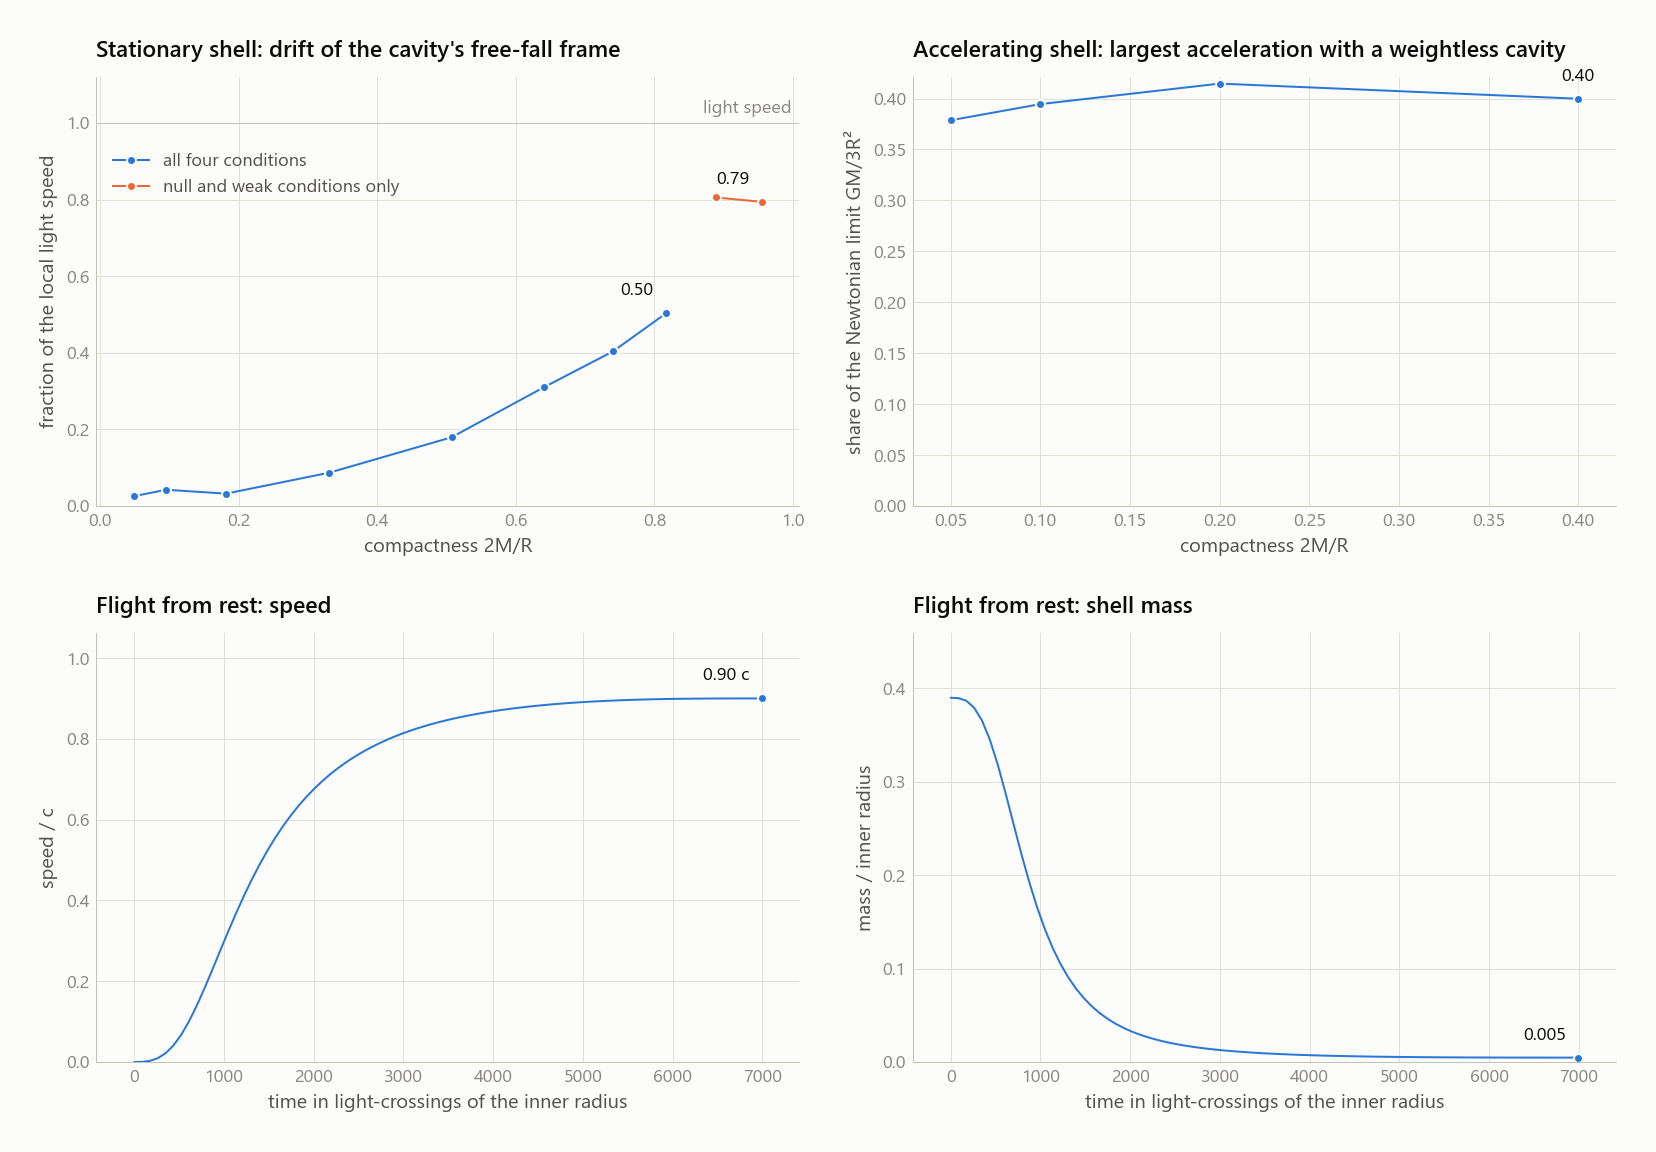
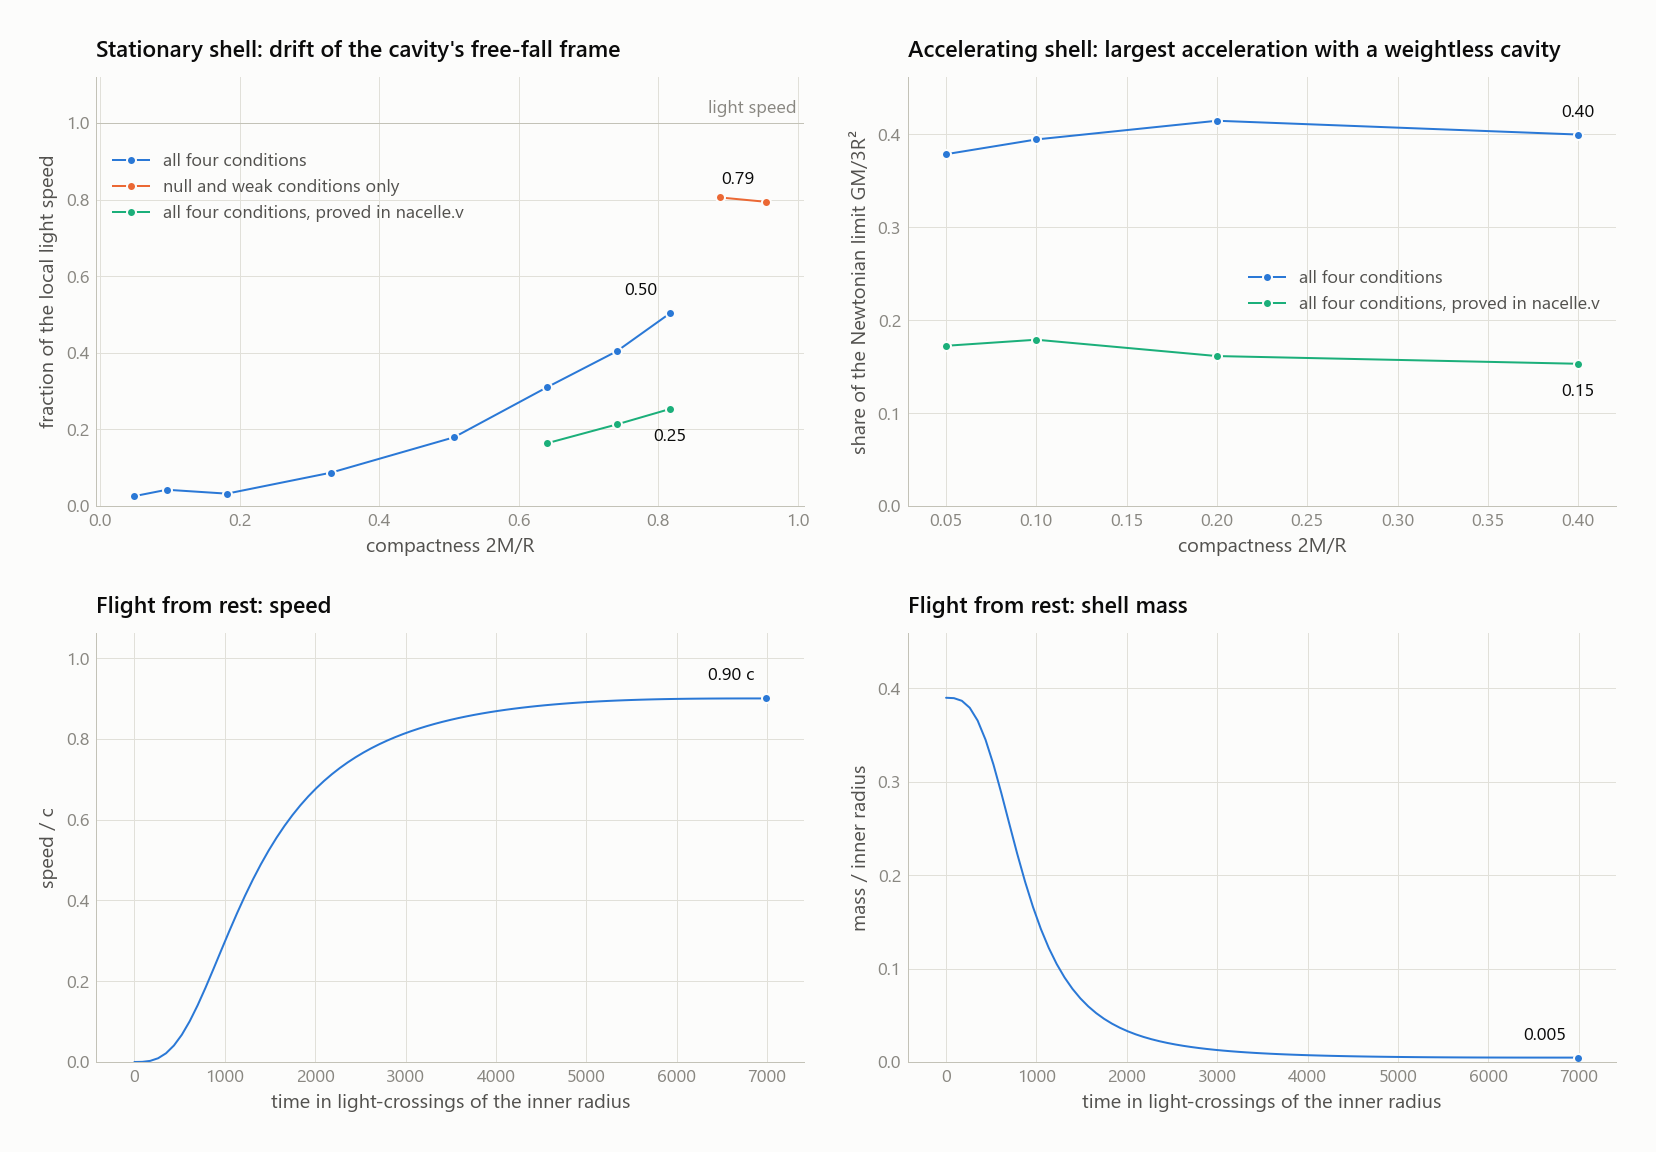
Show the proved rocket shells in the acceleration table and figure and describe the new proofs

diff --git a/README.md b/README.md
@@ -16,26 +16,26 @@ A design places differentiable walls, rings, stacks of rings and ellipsoidal she
 
 ## Positive-energy shells
 
-`nacelle shells` builds shells of positive-energy matter around a flat cavity in three metric families: a stationary shell whose wall carries a shift, so that the cavity drifts relative to it; an accelerating shell on a radiation exhaust whose cavity accelerates with it; and an accelerating hull whose exhaust is aimed by the shape of its wavefronts, around a cavity that stays inertial. Each family's Einstein tensor is derived in closed form, and every design is held to the null, weak, strong and dominant energy conditions for every observer at every point, with no equation of state. Searches by sequential linear programming find the best design at each mass, `verify` checks every saved design again on a finer grid, and `flight` takes a closed-form rocket shell from rest to a chosen speed. The results are in `results/shells.json`, for walls from R1 to 2 R1 with masses in units of R1, and `results/shells.png` draws them.
+`nacelle shells` builds shells of positive-energy matter around a flat cavity in three metric families: a stationary shell whose wall carries a shift, so that the cavity drifts relative to it; an accelerating shell on a radiation exhaust whose cavity accelerates with it; and an accelerating hull whose exhaust is aimed by the shape of its wavefronts, around a cavity that stays inertial. Each family's Einstein tensor is derived in closed form. Searches by sequential linear programming find the best design at each mass and hold it, at the points of a grid over its wall, to the null, weak, strong and dominant energy conditions for every observer, with no equation of state, or to the null and weak ones alone where the drift table says so; `verify` checks every saved design again on a finer grid, and `flight` takes a closed-form rocket shell from rest to a chosen speed. At each mass of the drift table where all four conditions hold, `certifiable` finds the closed-form drag shell of greatest drift whose certificate holds, and at each mass of the acceleration table the rocket shell of greatest acceleration whose certificate holds, and `nacelle.v` proves that each meets the null, weak, strong and dominant conditions at every point. The results are in `results/shells.json`, for walls from R1 to 2 R1 with masses in units of R1, and `results/shells.png` draws them.
 
-The drift of the cavity's free-fall frame relative to the shell, as a fraction of the local light speed:
+The drift of the cavity's free-fall frame relative to the shell, as a fraction of the local light speed, for the best design of each search and for the closed-form drag shell at the same mass that `nacelle.v` proves:
 
-| M | compactness | drift | cavity lapse | conditions |
-|---|---|---|---|---|
-| 1.00 | 0.640 | 0.310 | 0.485 | all four |
-| 1.30 | 0.741 | 0.404 | 0.389 | all four |
-| 1.60 | 0.816 | 0.503 | 0.300 | all four |
-| 2.00 | 0.889 | 0.805 | 0.142 | null and weak |
-| 2.60 | 0.955 | 0.794 | 0.051 | null and weak |
+| M | compactness | drift | cavity lapse | conditions | proved drift |
+|---|---|---|---|---|---|
+| 1.00 | 0.640 | 0.310 | 0.485 | all four | 0.164 |
+| 1.30 | 0.741 | 0.404 | 0.389 | all four | 0.213 |
+| 1.60 | 0.816 | 0.503 | 0.300 | all four | 0.253 |
+| 2.00 | 0.889 | 0.805 | 0.142 | null and weak | |
+| 2.60 | 0.955 | 0.794 | 0.051 | null and weak | |
 
-The largest acceleration with a weightless cavity, against GM/3R1^2, the largest uniform field a shell of non-negative density gives a cavity in Newtonian gravity, for the rocket shell on its exhaust and the beam hull on an aimed exhaust of six Legendre modes. The efficiency M a / (-M_u) is 1 for an ideal photon rocket.
+The largest acceleration with a weightless cavity, against GM/3R1^2, the largest uniform field a shell of non-negative density gives a cavity in Newtonian gravity, for the rocket shell on its exhaust and the beam hull on an aimed exhaust of six Legendre modes, and the acceleration of the rocket shell at the same mass that `nacelle.v` proves. The efficiency M a / (-M_u) is 1 for an ideal photon rocket.
 
-| M | rocket a R1^2 / M | share of GM/3R1^2 | beam a R1^2 / M | share of GM/3R1^2 | beam efficiency | mass kept at 0.9 c |
-|---|---|---|---|---|---|---|
-| 0.05 | 0.126 | 0.38 | 0.116 | 0.35 | 0.689 | 0.118 |
-| 0.10 | 0.132 | 0.39 | 0.115 | 0.35 | 0.688 | 0.118 |
-| 0.20 | 0.138 | 0.41 | 0.114 | 0.34 | 0.687 | 0.117 |
-| 0.40 | 0.133 | 0.40 | 0.148 | 0.44 | 0.680 | 0.115 |
+| M | rocket a R1^2 / M | share of GM/3R1^2 | beam a R1^2 / M | share of GM/3R1^2 | beam efficiency | mass kept at 0.9 c | proved rocket a R1^2 / M |
+|---|---|---|---|---|---|---|---|
+| 0.05 | 0.126 | 0.38 | 0.116 | 0.35 | 0.689 | 0.118 | 0.057 |
+| 0.10 | 0.132 | 0.39 | 0.115 | 0.35 | 0.688 | 0.118 | 0.060 |
+| 0.20 | 0.138 | 0.41 | 0.114 | 0.34 | 0.687 | 0.117 | 0.054 |
+| 0.40 | 0.133 | 0.40 | 0.148 | 0.44 | 0.680 | 0.115 | 0.051 |
 
 The closed-form rocket shell flown from rest with the least exhaust its family allows, every condition checked at 81 instants of the burn:
 
@@ -48,7 +48,9 @@ The closed-form rocket shell flown from rest with the least exhaust its family a
 
 ## Proofs
 
-`nacelle.v` proves the energy conditions of a Hawking-Ellis type I tensor, that the Maxwell stress tensor obeys the null and dominant conditions, and the flat-slice theorem: with flat spatial slices and any lapse, the integral of `alpha^2 rho` is minus the integral of `|curl beta|^2` over 32 pi, so such a spacetime cannot be built from positive energy. Its certificate theorems give all four energy conditions from two diagonally dominant matrix pencils, or from Sylvester's criterion on them, for every causal vector. The face theorem shows that the dominant condition keeps a cavity's drift below the local light speed where a wall meets its cavity, and the last part of the file, written by `nacelle shells certify`, proves the four conditions at every point of the walls of a closed-form drag shell, a closed-form rocket shell and the drag shell that `nacelle shells certifiable` finds, the one of greatest drift whose certificate rows hold with a set margin. The command writes out the expression trees that Interval's tactic would build, and the kernel runs Interval's bisection on them.
+`nacelle.v` proves the energy conditions of a Hawking-Ellis type I tensor, that the Maxwell stress tensor obeys the null and dominant conditions, and the flat-slice theorem: with flat spatial slices and any lapse, the integral of `alpha^2 rho` is minus the integral of `|curl beta|^2` over 32 pi, so such a spacetime cannot be built from positive energy. It proves the theorem for integrals with the properties of one over a periodic domain, and again on the three-torus with Coquelicot's integrals, for every shift whose components are trigonometric polynomials. Its certificate theorems give all four energy conditions from two diagonally dominant matrix pencils, or from Sylvester's criterion on them, for every causal vector. The face theorem shows that the dominant condition keeps a cavity's drift from exceeding the local light speed where a wall meets its cavity, and that face data drifting at the light speed itself meet every condition, so no bound below it follows there.
+
+The last part of the file is written by `nacelle shells certify`. It computes the Einstein tensors of the drag family's metric and of the rocket family's without the dipole of its lapse: the Christoffel symbols, their derivatives and the Ricci tensor from the metric's components and their first and second derivatives along the coordinates, taken by the chain rule over the profiles' jets, all as Laurent polynomials in the jets evaluated by reflection in the kernel. It proves each equal on its family's frame to the closed forms G_* that the certificates take. It proves the four conditions at every point off the centre of a closed-form drag shell, a closed-form rocket shell and the shells that `nacelle shells certifiable` finds, the drag shells at the masses of the drift table and the rocket shells at those of the acceleration table, each the one of greatest drift or acceleration whose certificate rows hold with a set margin: in the wall, in the flat cavity and in the exterior, which is empty around the drag shells and holds the rocket's exhaust, with the metric matched across both faces. It also proves that the rocket shells' jets in retarded time are those their exhaust's evolution gives. The command writes out the expression trees that Interval's tactic would build, and the kernel runs Interval's bisection on them in two levels: the radial functions are enclosed once on each cell of r by their mean-value form, and each row is bisected in the angle with those enclosures held. Interval's programs run there on persistent arrays indexed by machine integers, which compute the values Interval's own evaluator does.
 
 ## Set-up
 
